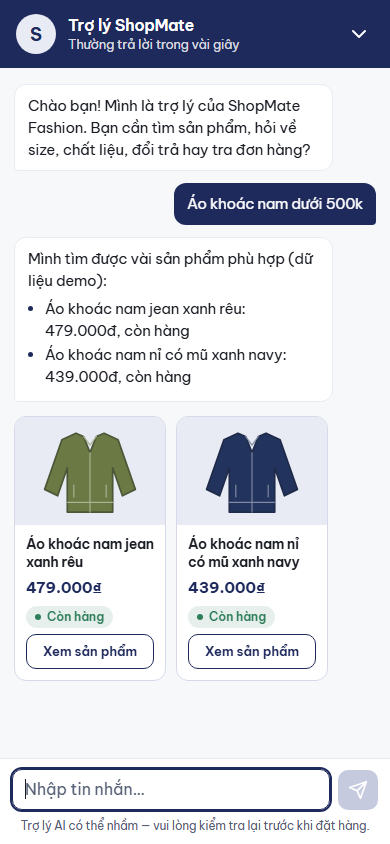
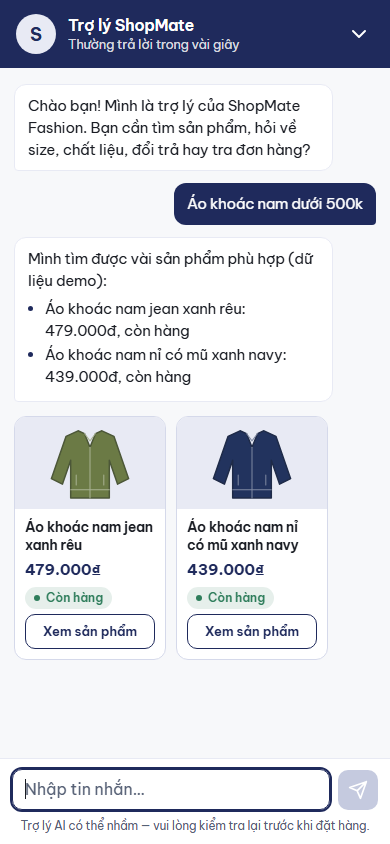
chore(demo): fictional sample SKUs, order-check chip, button parser lock tests

Changed region(s): [[0.0615, 0.4929, 0.4, 0.8009], [0.4615, 0.5237, 0.8308, 0.8009], [0.6154, 0.4929, 0.6769, 0.5237]]

diff --git a/widget/shopmate-chat.js b/widget/shopmate-chat.js
@@ -201,7 +201,7 @@
   var memorySession = null;
 
   var GREETING = 'Chào bạn! Mình là trợ lý của ShopMate Fashion. Bạn cần tìm sản phẩm, hỏi về size, chất liệu, đổi trả hay tra đơn hàng?';
-  var CHIPS = ['Áo khoác nam dưới 500k', 'Đổi hàng trong bao nhiêu ngày?', 'Tra đơn #84', 'Giao hàng mất mấy ngày?'];
+  var CHIPS = ['Áo khoác nam dưới 500k', 'Đổi hàng trong bao nhiêu ngày?', 'Kiểm tra đơn hàng', 'Giao hàng mất mấy ngày?'];
   var T = {
     open: 'Mở trò chuyện với trợ lý ShopMate', minimize: 'Thu nhỏ cửa sổ trò chuyện', name: 'Trợ lý ShopMate', status: 'Thường trả lời trong vài giây',
     dialog: 'Trò chuyện với trợ lý ShopMate', log: 'Cuộc trò chuyện', suggestions: 'Gợi ý câu hỏi', placeholder: 'Nhập tin nhắn…', label: 'Tin nhắn của bạn',
@@ -248,10 +248,10 @@
     '.chip{background:#fff;border:1px solid var(--indigo);color:var(--indigo);border-radius:999px;padding:7px 13px;font-size:13px;font-weight:500;text-align:left;max-width:100%}',
     '.chip:hover{background:var(--tint)}',
     '.chip:disabled{opacity:.55;cursor:default}',
-    '.rail{display:flex;gap:10px;overflow-x:auto;scroll-snap-type:x mandatory;scroll-padding:0 14px;margin:0 -14px;padding:2px 14px 10px;align-self:stretch;scrollbar-width:thin;scrollbar-color:var(--field) transparent}',
+    '.rail{display:flex;gap:10px;overflow-x:auto;scroll-snap-type:x mandatory;scroll-padding:0 14px;margin:0 -14px;padding:2px 14px 6px;align-self:stretch;scrollbar-width:thin;scrollbar-color:var(--field) transparent}',
     '.card{flex:0 0 164px;scroll-snap-align:start;background:#fff;border:1px solid var(--line);border-radius:12px;overflow:hidden;display:flex;flex-direction:column}',
-    '.thumb{background:var(--tint);height:108px;display:block}.thumb svg{width:100%;height:100%;display:block}',
-    '.info{padding:10px 11px 11px;display:flex;flex-direction:column;gap:6px;flex:1}',
+    '.thumb{background:var(--tint);height:92px;display:block}.thumb svg{width:100%;height:100%;display:block}',
+    '.info{padding:9px 10px 10px;display:flex;flex-direction:column;gap:5px;flex:1}',
     '.name{font-weight:600;font-size:13.5px;line-height:1.35;min-height:2.7em;display:-webkit-box;-webkit-line-clamp:2;-webkit-box-orient:vertical;overflow:hidden;overflow-wrap:anywhere}',
     '.price{font-weight:700;font-size:15px;color:var(--indigo)}',
     '.stock{align-self:flex-start;display:inline-flex;align-items:center;gap:6px;font-size:12px;font-weight:600;padding:2px 9px;border-radius:999px}',

diff --git a/tests/test_chat_api.py b/tests/test_chat_api.py
@@ -296,12 +296,73 @@ def test_with_the_real_agent_awaiting_offer_is_true_exactly_while_the_offer_is_o
     assert all(p["kind"] == "Áo khoác nam" and p["color"] and p["material"] for p in answered["products"])
 
 
+def test_the_order_chip_makes_the_real_agent_ask_for_the_number_and_the_email_and_look_nothing_up():
+    question = "Kiểm tra đơn hàng"
+    tools = FakeTools()
+    agent = Agent(router=FakeRouter({question: "order_status"}), extractor=FakeExtractor({}), tools=tools, answerer=FakeAnswerer(), catch_errors=True)
+    body = say(client(AgentBackend(agent, slugs={})), sid(), question).json()
+    assert body["reply"] == T.ASK_NUMBER_AND_EMAIL and body["reply_source"] == "clarify" and body["products"] == [] and tools.lookups == []
+
+
+# --- what the buttons send is what the parsers understand ------------------------------------------------------------------------------------------
+
+
+def _widget_sends() -> tuple[str, str]:
+    """The two texts the offer buttons send as the customer's next message, read from the widget source."""
+    source = (REPO / "widget" / "shopmate-chat.js").read_text(encoding="utf-8")
+    match = re.search(r"_buttons\(T\.offerYes, function \(\) \{ self\._dispatch\('([^']+)', T\.offerYes\); \}, function \(\) \{ self\._dispatch\('([^']+)', T\.no\); \}\)", source)
+    assert match, "the offer buttons no longer have the form this test reads: update the test with the widget, and keep the two checks below"
+    return match.group(1), match.group(2)
+
+
+def test_the_text_of_the_offer_buttons_is_a_yes_and_a_plain_refusal_for_the_parsers_of_the_agent():
+    from app.agent.parsing import is_plain_decline, parse_yes_no
+
+    yes, no = _widget_sends()
+    assert (yes, no) == ("có", "không cần")
+    assert parse_yes_no(yes) == "yes" and is_plain_decline(yes) is False  # accepted: the search without the dropped constraints
+    assert parse_yes_no(no) == "no" and is_plain_decline(no) is True  # refused: the fixed reply, no router
+    # why the buttons do not send their own labels: "Có, cho mình xem" is a request, not an answer, and the agent would send it to the router
+    assert parse_yes_no("Có, cho mình xem") != "yes" and "Có, cho mình xem" in (REPO / "widget" / "shopmate-chat.js").read_text(encoding="utf-8")
+
+
+def test_the_text_the_ticket_buttons_stand_for_is_a_yes_and_a_no_for_the_parser_and_the_widget_posts_a_boolean():
+    from app.agent.parsing import parse_yes_no
+
+    api = (REPO / "app" / "chat_api.py").read_text(encoding="utf-8")
+    sent = re.search(r'self\.agent\.turn\(session_id, "([^"]+)" if confirm else "([^"]+)"\)', api)
+    assert sent, "AgentBackend.confirm no longer turns the boolean into a typed answer: update this test"
+    assert (parse_yes_no(sent.group(1)), parse_yes_no(sent.group(2))) == ("yes", "no")
+    widget = (REPO / "widget" / "shopmate-chat.js").read_text(encoding="utf-8")
+    assert "this._run('/api/chat/confirm', { session_id: sessionId(), confirm: yes })" in widget  # the widget sends true or false, never a label
+
+
+def test_with_the_real_agent_the_offer_buttons_do_what_their_labels_say(tmp_path):
+    yes, no = _widget_sends()
+    question, filters = "áo khoác nam đỏ size XL", {"kind": "Áo khoác nam", "color": "Đỏ", "size": "XL"}
+
+    def conversation():
+        router = FakeRouter({question: "product_search"})
+        agent = Agent(router=router, extractor=FakeExtractor({question: filters}), tools=FakeTools(offers=True), answerer=FakeAnswerer(), catch_errors=True)
+        c, mine = client(AgentBackend(agent, slugs={})), sid()
+        assert say(c, mine, question).json()["awaiting_offer"] is True
+        return c, mine, router
+
+    c, mine, router = conversation()
+    accepted = say(c, mine, yes).json()
+    assert accepted["reply"].startswith("Không khớp hoàn toàn") and accepted["products"] and router.calls == [question]  # no second router call: the yes was read as a yes
+    c, mine, router = conversation()
+    declined = say(c, mine, no).json()
+    assert declined["reply"] == T.OFFER_DECLINED and declined["products"] == [] and router.calls == [question]  # the refusal never reached the router
+
+
 def test_the_fake_backend_answers_the_chips_of_the_widget_with_the_real_policy_facts():
     c = client()
     assert "7 ngày" in say(c, sid(), "Đổi hàng trong bao nhiêu ngày?").json()["reply"]
     shipping = say(c, sid(), "Giao hàng mất mấy ngày?").json()["reply"]
     assert "1–2 ngày" in shipping and "2–5 ngày" in shipping and "500.000đ" in shipping
-    assert say(c, sid(), "Tra đơn #84").json()["reply_source"] == "clarify"
+    order = say(c, sid(), "Kiểm tra đơn hàng").json()  # no number in the question: the assistant asks for the number and the email
+    assert order["reply"] == T.ASK_NUMBER_AND_EMAIL and order["reply_source"] == "clarify" and order["products"] == []
     cheap = say(c, sid(), "Áo khoác nam dưới 500k").json()["products"]
     assert cheap and all(p["price_vnd"] <= 500000 and p["kind"] == "Áo khoác nam" for p in cheap)
 

diff --git a/tests/test_widget.py b/tests/test_widget.py
@@ -247,7 +247,7 @@ def test_the_widget_has_the_parts_of_the_brief():
     for needle in ("'S'", "Thường trả lời trong vài giây", "Thu nhỏ cửa sổ trò chuyện", "this._fab.hidden = open", "MAX_ROWS = 4", "scroll-snap-type:x mandatory", "Xem sản phẩm",
                    "role: 'log'", "e.key === 'Escape'", "function fillText", "/^\\s*-\\s+(.*)$/", "T.retry", "T.wait", "class: 'bubble typing'", "inset:0"):
         assert needle in SOURCE, needle
-    for chip in ("Áo khoác nam dưới 500k", "Đổi hàng trong bao nhiêu ngày?", "Tra đơn #84", "Giao hàng mất mấy ngày?"):
+    for chip in ("Áo khoác nam dưới 500k", "Đổi hàng trong bao nhiêu ngày?", "Kiểm tra đơn hàng", "Giao hàng mất mấy ngày?"):
         assert f"'{chip}'" in SOURCE, chip
     assert SOURCE.count("function thumbnail") == 1 and "thumbnail(p, { decorative: true })" in SOURCE  # the card uses the shared function
     assert re.search(r"@media \(prefers-reduced-motion:no-preference\)\{\.typing i\{animation", SOURCE)  # the dots only move where motion is welcome
@@ -255,15 +255,15 @@ def test_the_widget_has_the_parts_of_the_brief():
 
 def test_every_suggestion_chip_has_a_real_answer_in_the_catalogue_or_the_policies():
     chips = re.findall(r"'([^']+)'", re.search(r"var CHIPS = \[(.*?)\];", SOURCE, re.S).group(1))
-    assert chips == ["Áo khoác nam dưới 500k", "Đổi hàng trong bao nhiêu ngày?", "Tra đơn #84", "Giao hàng mất mấy ngày?"]
+    assert chips == ["Áo khoác nam dưới 500k", "Đổi hàng trong bao nhiêu ngày?", "Kiểm tra đơn hàng", "Giao hàng mất mấy ngày?"]
     jackets = {p["sku"] for p in CATALOG if p["kind"] == "Áo khoác nam" and p["price"] <= 500000 and p["stock"] > 0}
     assert jackets == {"SM-NAM-0014", "SM-NAM-0042"}  # chip 1 finds exactly the two jackets of the offer, both in stock
     returns = (REPO / "data" / "policies" / "doi-tra.md").read_text(encoding="utf-8")
     article_2 = returns.split("## Điều 2.")[1].split("## Điều 3.")[0]
     assert "**7 ngày**" in article_2 and "**30 ngày**" in article_2  # chip 2: the return article answers "how many days"
+    assert "#" not in chips[2] and not re.search(r"\d", chips[2])  # chip 3 carries no order number: the agent asks for the number and the email (templates.ASK_NUMBER_AND_EMAIL)
     orders = json.loads((REPO / "data" / "seed" / "orders.vi.json").read_text(encoding="utf-8"))["orders"]
-    order = next(o for o in orders if o["number"] == "84")
-    assert order["customer"]["email"].endswith("@example.com")  # chip 3: order 84 exists; the agent asks for its (synthetic) email before it says anything
+    assert orders and all(o["customer"]["email"].endswith("@example.com") for o in orders)  # and there are (synthetic) orders it can then look up
     shipping = (REPO / "data" / "policies" / "van-chuyen.md").read_text(encoding="utf-8").split("## Điều 3.")[1].split("## Điều 4.")[0]
     assert "**1–2 ngày**" in shipping and "**2–5 ngày**" in shipping  # chip 4: the delivery-time article
 

diff --git a/tests/test_dashboard_page.py b/tests/test_dashboard_page.py
@@ -262,6 +262,17 @@ def test_the_sample_tells_every_story_the_dashboard_has_to_draw():
 
 
 @needs_node
+def test_no_sku_of_the_sample_exists_in_the_real_catalogue():
+    """The sample products are invented, so their SKUs must be too: a real trace and the sample can never show one SKU as two products (D7.35)."""
+    catalogue = {p["sku"] for p in json.loads((REPO / "data" / "seed" / "catalog.vi.json").read_text(encoding="utf-8"))["products"]}
+    text = json.dumps(js(f"api.makeSample({NOW})"), ensure_ascii=False)
+    seen = set(re.findall(r"SM-[A-Z]+-\d{4}", text)) | set(re.findall(r"SM-[A-Z]+-\d{4}", HTML))  # in the traces the sample writes, and anywhere in the page (the example line, the product table)
+    assert len(seen) >= 20, seen  # the sample does mention its products: the check is not empty
+    assert not seen & catalogue, sorted(seen & catalogue)
+    assert all(re.fullmatch(r"SM-DEMO-\d{4}", sku) for sku in seen), sorted(seen)
+
+
+@needs_node
 def test_the_sample_contains_no_email_phone_or_secret():
     sample = js(f"api.makeSample({NOW})")
     text = json.dumps([{k: v for k, v in r.items() if k not in ("trace_id", "session_id")} for r in sample], ensure_ascii=False)  # ids are hex, not phone numbers

diff --git a/docs/DECISIONS-phase7.md b/docs/DECISIONS-phase7.md
@@ -393,7 +393,7 @@ catalogue has no black Dù jacket under 500k and no white or Linen men's shirt),
 - **Conclusion: no error.** The `kind` filter is present and right in both conversations. What can look like a mix is two conversations next to each other in the monitor list or in one widget window.
 - **One real thing found on the way, not fixed:** the dashboard's *sample data* (`dashboard/index.html`, `CATALOG`) uses real-looking SKUs for invented products: `SM-NAM-0002` is "Áo khoác dù nam đen" there and `SM-NAM-0001` "Áo khoác dù nam xanh rêu",
   while in the real catalogue SM-NAM-0002 is the black office **shirt** and SM-NAM-0001 a T-shirt (tests/fake_agent.py reuses the same invented names). Anyone who reads a real trace next to the sample sees the same SKU as two different
-  products. **Proposal:** give the sample products SKUs that cannot exist (`SM-DEMO-0001` ...) and mark the sample as such in the retrieval hits; two lines in `makeSample` and in `test_dashboard_page.py`. Not done: you asked for no change before the freeze.
+  products. **Proposal:** give the sample products SKUs that cannot exist (`SM-DEMO-0001` ...); two lines in `makeSample` and in `test_dashboard_page.py`. Not done when it was written (no change before the freeze); **done in D7.38**.
 
 ### D7.36 One look for the widget and the demo shop, one function for the thumbnails
 
@@ -422,7 +422,7 @@ catalogue has no black Dù jacket under 500k and no white or Linen men's shirt),
   honours "dưới 500k", returns only the best matches (so "áo khoác nam" is never a T-shirt) and, for the jacket question of the Phase 7.5 smoke, makes the offer the real agent made, so the offer buttons can be shown without the stack.
 - **The chips and the data.** Each chip has an answer in the data (`test_every_suggestion_chip_has_a_real_answer_in_the_catalogue_or_the_policies`): "Áo khoác nam dưới 500k" finds exactly two in-stock jackets (the two of the offer); "Đổi hàng
   trong bao nhiêu ngày?" is answered by Điều 2 of the return policy (7 and 30 days); "Giao hàng mất mấy ngày?" by Điều 3 of the delivery policy (1-2 and 2-5 working days); "Tra đơn #84" exists in the seed orders, but the agent asks for the order's
-  email before it says anything (by design, D6), so that chip opens a question, not an answer.
+  email before it says anything (by design, D6), so that chip opens a question, not an answer. *(Changed in D7.38: the chip is now "Kiểm tra đơn hàng", with no number.)*
 - **Looked at, criticised, changed (two rounds, fake mode, Edge, 1440 px and 390 px).** Round 1: the product cards were cut at the bottom of the log because the flex items of the log shrank (fixed: they no longer shrink); the chips wrapped in
   a ragged way (now one per line); the focus ring of the text box doubled the border (now one 2 px indigo line); the footer line left one word alone on its second line (balanced); a smooth scroll left the screenshots half-way (instant);
   the dress looked like a lampshade and the trousers like two sticks (redrawn), the denim and leather weaves were too heavy (lighter). Round 2: an answer with product cards always scrolls to the end so the cards are whole; the cards are
@@ -430,7 +430,7 @@ catalogue has no black Dù jacket under 500k and no white or Linen men's shirt),
 - **Screenshots** (`docs/screenshots/phase7/`, all fake mode): `demo-page-desktop.png`, `demo-page-mobile.png`, `widget-greeting-*`, `widget-products-*`, `widget-offer-*`, `widget-confirm-*` (desktop and mobile), `widget-error-mobile.png`.
 - **Undo.** `git checkout` the files of this change; the API fields are additive, an older widget ignores them.
 
-### D7.37 Live smoke of the redesigned widget: not run
+### D7.37 Live smoke of the redesigned widget: not run (superseded by D7.38, which ran it)
 
 - **Planned.** At most 6 Gemini requests: press two chips through the real API (`--live --max-live-calls 6`), one screenshot of the widget with the real answers. The counter file of the Pacific day 2026-10-11 does not exist yet (0 used; the last
   file, 2026-10-10, ended at 151 of 450).
@@ -439,4 +439,25 @@ catalogue has no black Dù jacket under 500k and no white or Linen men's shirt),
   above do not need it.
 - **To do when the stack is up** (Docker Desktop on, `docker compose up -d qdrant`, the Saleor stack): `uv run python -m app.chat_api --live --max-live-calls 6`, press "Đổi hàng trong bao nhiêu ngày?" (about 2 requests) and "Áo khoác nam
   dưới 500k" (about 3), photograph the widget, then stop the API.
+
+### D7.38 Sample SKUs that cannot collide, the order chip, locked button texts, and the live smoke of the widget
+
+- **Sample SKUs (D7.35).** The 20 invented products of the dashboard sample are now `SM-DEMO-0001` to `SM-DEMO-0020` (in the order of the table, so the product of the example trace line is `SM-DEMO-0002`). `test_no_sku_of_the_sample_exists_in_the_real_catalogue`
+  reads every SKU the sample writes (hits, replies, error messages) and every SKU in the page, requires at least 20 of them, all of the form `SM-DEMO-dddd`, none in `data/seed/catalog.vi.json`. `tests/fake_agent.py` keeps its own invented names
+  (a test fixture, never shown next to a real trace).
+- **The order chip.** "Tra đơn #84" is now **"Kiểm tra đơn hàng"**: no number, so the agent has to ask for the number and the email (`templates.ASK_NUMBER_AND_EMAIL`) and looks nothing up. Tests: the fake backend and the real `Agent` (router
+  fake, `tools.lookups == []`) both answer with that sentence; the chip test requires that the chip carries no digit and that the seed orders exist.
+- **The texts the buttons send are locked.** "Có, cho mình xem" sends `có`, "Không cần" sends `không cần` (read from the widget source by a regular expression that fails loudly if the code is reshaped): `parse_yes_no("có") == "yes"`, `parse_yes_no("không cần") == "no"` and
+  `is_plain_decline("không cần")`; with the real agent the yes runs the accepted search without a second router call and the refusal gets `OFFER_DECLINED` without any router call. The label "Có, cho mình xem" is *not* a yes for the parser (it is a request), which
+  is why the button does not send its own label. The ticket buttons send no text: the widget posts `confirm: true/false` and `AgentBackend.confirm` turns it into `có` / `không`, which `parse_yes_no` reads as yes / no (also locked).
+- **Live smoke, 6 Gemini requests (the cap of the run; counter of the Pacific day 2026-10-11: 0 -> 6 of 450).** The chat API ran with `--live --max-live-calls 6` on 127.0.0.1:8766, Qdrant and the read-only Saleor up; each chip was pressed in the real widget
+  (Edge, a page on port 8777 allowed as the storefront origin) and the page text and cards were read back from the DOM:
+  1. "Đổi hàng trong bao nhiêu ngày?": 2 requests (router, answer). Answer: 7 days for size or colour, 30 days for a defective or wrong item, "Nguồn: doi-tra, Điều 2". Correct against `data/policies/doi-tra.md`.
+  2. "Áo khoác nam dưới 500k": 3 requests (router, extractor, answer). Answer and cards: SM-NAM-0014 (479.000₫) and SM-NAM-0042 (439.000₫), both in stock, drawn as jackets with a plain weave (their material is polyester); the search found them directly, so **there was no offer
+     to accept** and the "Có, cho mình xem" button did not come up in the live run (it is shown, and tested, in fake mode and with the real agent over fake components).
+  3. "Kiểm tra đơn hàng": 1 request (router, the sixth and last). Answer: "Để kiểm tra, bạn cho mình xin số đơn hàng và email đặt hàng nhé." (the fixed template; nothing was looked up).
+  The two screenshots were taken after, from the answers the chat API had cached (no new request: the counter stayed at 6): `docs/screenshots/phase7/widget-live-products-desktop.png`, `widget-live-policy-desktop.png`. Criticism of the first take: the real answer is long, so the
+  top line of its bubble was cut by the header when the cards were shown; the card is now 16 px shorter (swatch 92 px, tighter padding) and bubble and cards fit the log. Retaken because of this change or the SKU change: `widget-products-*`, `widget-greeting-*` (the chip text),
+  `dashboard-flow-desktop`, `dashboard-journey-desktop`, `dashboard-journey-mobile` (they show the sample SKUs).
+- **Undo.** Revert the commit of this change; nothing else depends on the sample SKUs or the chip text.
 
